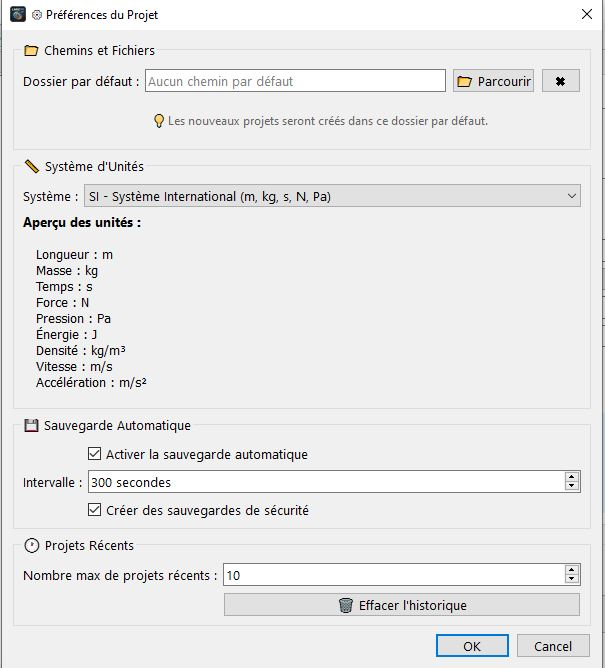
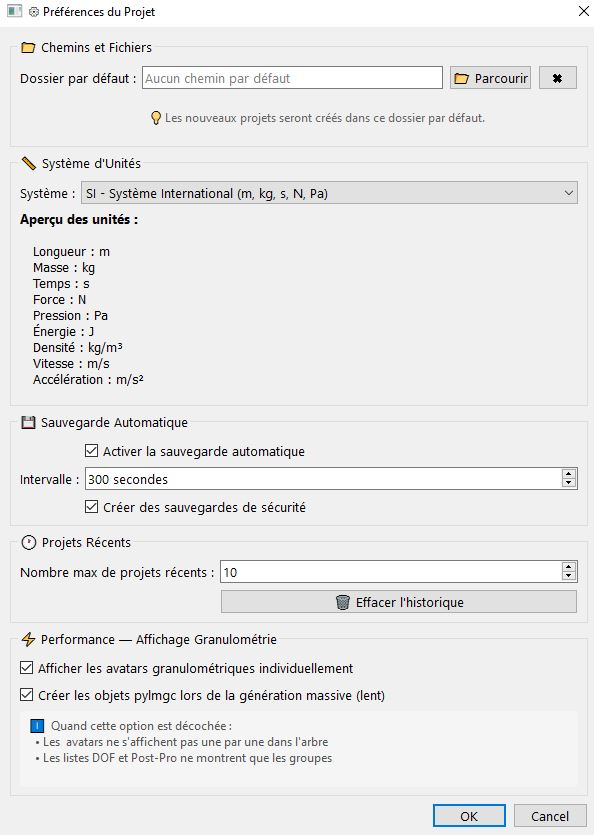
fix docs

Changed region(s): [[0.0, 0.0, 1.0, 1.0]]

diff --git a/docs/material_creation.md b/docs/material_creation.md
@@ -14,15 +14,15 @@ Cette section explique comment créer et configurer un matériau dans LMGC90_GUI
   - **Propriétés** : Champ texte pour paramètres avancés pour chaque type de matériau
 
 ## Types de matériaux disponibles
-Vous pourriez créer différents types de matériaux, ce tabelau comprenne tous les paramères pour chaque matériau: 
+Vous pourriez créer différents types de matériaux, ce tabelau comprenne tous les paramères pour chaque matériau:  
 
 | Code matériau | Nom complet | Nombre de paramètres | Paramètres principaux | Modèles compatibles |
 |---------------|-------------|----------------------|-----------------------|---------------------|
 | **RIGID** | Corps rigide | 1 | density | MECAx, THERx |
 | **THERMO_RIGID** | Corps rigide thermique | 6 | density, anisotropy, thermal_conductivity, specific_heat, thermal_young, thermal_nu | MECAx, THERx |
 | **DISCRETE** | Éléments discrets | 3 | masses, stiffnesses, viscosities | MECAx, THERx |
-| x**USER_MAT** | Matériau utilisateur | 2 | density, file_mat | MECAx |
-| x**EXTERNAL** | Matériau externe | 0 | *(aucun)* | MECAx |
+| (x)**USER_MAT** | Matériau utilisateur | 2 | density, file_mat | MECAx |
+| (x)**EXTERNAL** | Matériau externe | 0 | *(aucun)* | MECAx |
 | **ELAS** | Élastique linéaire | 6 | elas, young, nu, anisotropy, density, G | MECAx, THERx |
 | **VISCO_ELAS** | Visco-élastique | 8 | elas, young, nu, anisotropy, density, viscous_model, viscous_young, viscous_nu | MECAx, THERx |
 | **ELAS_PLAS** | Élasto-plastique | 11 | critere, iso_hard, isoh_coeff, young, nu, anisotropy, elas, density, isoh, cinh, visc | MECAx |
@@ -30,14 +30,15 @@ Vous pourriez créer différents types de matériaux, ce tabelau comprenne tous 
 | **THERMO_ELAS** | Thermo-élastique | 10 | elas, young, nu, anisotropy, conductivity, dilatation, T_ref_meca, specific_capacity, therm_cpl, density | MECAx, THERx |
 | **PORO_ELAS** | Poro-élastique | 8 | elas, young, nu, anisotropy, hydro_cpl, conductivity, specific_capacity, density | POROx |
 
+
 Par cas d'usage
 | Matériau | Applications typiques | Exemples concrets | Domaines |
 |----------|----------------------|-------------------|----------|
 | **RIGID** | Méthode des éléments discrets (DEM) | Empilement de grains, écoulements granulaires, assemblages de particules rigides | Génie civil, pharmacie, agroalimentaire |
 | **THERMO_RIGID** | DEM avec transferts thermiques | Particules chaudes, réacteurs à lit fluidisé, procédés thermiques | Chimie, métallurgie |
 | **DISCRETE** | Systèmes masse-ressort-amortisseur | Isolateurs sismiques, suspensions, liaisons élastiques | Génie parasismique, automobile |
-| x**USER_MAT** | Lois de comportement personnalisées | Matériaux spécifiques, lois expérimentales | Recherche, matériaux innovants |
-| x**EXTERNAL** | Interfaces avec codes externes | Couplage avec autres logiciels | Multi-physique |
+| (x)**USER_MAT** | Lois de comportement personnalisées | Matériaux spécifiques, lois expérimentales | Recherche, matériaux innovants |
+| (x)**EXTERNAL** | Interfaces avec codes externes | Couplage avec autres logiciels | Multi-physique |
 | **ELAS** | Structures en régime élastique | Bâtiments, ponts, pièces mécaniques, structures métalliques | Génie civil, mécanique |
 | **VISCO_ELAS** | Matériaux visqueux | Polymères, asphalte, matériaux amortissants, joints | Routes, automobile, aéronautique |
 | **ELAS_PLAS** | Déformations plastiques permanentes | Formage des métaux, crash, endommagement, usinage | Métallurgie, automobile, aéronautique |
@@ -73,4 +74,4 @@ Dans le menu "Outils"-> "Variables dynamiques", vous aurez cette boite de dialog
 ![](captures/variables.JPG)
 
 ### Exemples et expressions
-Si je clique sur le premier exemple, et je modifie le nom de la variable à "radius ", je lui attribut la valeur de 0.25, puis de cliquer sur le bouton "Ajouter ou modifier", puis sur "OK", vous aurez la possibilité cette variable dans tous les champs.
+Si je clique sur le premier exemple (Constante simple thickness = 0.5), et je modifie le nom de la variable à "radius ", je lui attribut la valeur de 0.25, puis de cliquer sur le bouton "Ajouter ou modifier", puis sur "OK", vous aurez la possibilité de l'utiliser dans tous les champs.

diff --git a/docs/interface.md b/docs/interface.md
@@ -2,9 +2,11 @@
 
 LMGC90_GUI est une interface graphique moderne et intuitive conçue pour faciliter la création de vos modèles numériques avec le module **pre** (pré-processeur) de **LMGC90**.
 
+Il aussi possible de lancer vos calculs seulement sur les rigides.
+
 L'interface est organisée de manière claire et ergonomique pour accompagner l'utilisateur du début à la fin du processus de modélisation : création des éléments, conditions aux limites, post-traitement, puis génération des fichiers de simulation et enfin calculs.
 
-Voici une vue d'ensemble des différentes parties de l'interface.
+Voici cette vidéo qui explique la vue d'ensemble des différentes parties de l'interface.
 
 [![Introduction LMGC90_GUI](https://img.youtube.com/vi/2lVIGg3VboA/0.jpg)](https://www.youtube.com/watch?v=2lVIGg3VboA)
 
@@ -41,8 +43,20 @@ L'interface est divisée en **quatre zones principales** :
   - Sauvegarder sous... (Ctrl+Shift+S)
   - Assistant de configuration de projets (Ctrl+Shift+N)
   Est un assistant qui vous guidera pas à pas pour créer et configurer votre projet
+
+  ![](captures/assistant_projet.JPG)
+
   - Assistant de granulométrie (Ctrl+Shift+G)
-  Est un assistant pour générer une granulométrie rapidement
+  Est un assistant pour générer une granulométrie rapidement avec les routines liées à pylmgc90, idéal pour les dépôt qui ne dépasse pas 2000 avatars, sinon l'application prend beaucoup plus de temps afin de rafraichir l'UI, parfois plante complètement.
+
+  ![](captures/assistant_granulo_pylmgc90.JPG)
+
+  - Génération granulométrie numpy... (bêta)
+  Est une boite de dialogue qui génère et dépose des avatars à base de numpy sans passer par les routines pylmgc90, idéal pour la génération plus de 5000 avatars 
+
+  ![](captures/assistant_granulo_numpy.JPG) 
+
+
   - Quitter (Ctrl+Q)
 - **Outils** :
   - Préférences (Ctrl+,)
@@ -125,6 +139,7 @@ Vous avez la possibilité de spécifier quatre choses :
 - Choisir un système d'unités (SI ou CSG), il n'est pas encore implémenter
 - Automatiser vos sauvegardes en cochant les options 
 - Préciser nombre de projets de votre historique
+- Activer/désactiver l'affichage des avatars dans l'arbre de création et dans le tableau qui liste les avatars dans l'onglet avatars.
 
 ![](captures/preferences.JPG)
 

diff --git a/docs/granulometry.md b/docs/granulometry.md
@@ -49,3 +49,36 @@ IL ne vous reste de cliquer sur le bouton 'Générer de dépôt'
 Le rendu de mon modèle, 
 
 ![](captures/rendu_depot_granulo_disk_jonc.JPG)
+
+## Assistant de granulométrie 
+Vous pouvez aussi utiliser l'assistant de granulométrie afin de générer facilement vos dépôts, cet assistant fait appel aux routines de LMGC90, cela pourra ralentir considérablement votre interface, il n'est pas idéal pour une génération de plus de 2000 avatars (particules).
+Pour cela il vous suffit de cliquer sur le menu "Fichier" puis "Assistant de granulométrie " ou avec le raccourci clavier "ctr+ shift+ G". L'assistant s'ouvrira, cliquez sur le bouton "suivant"
+
+![](captures/assistant_granulo_page1.JPG)
+
+Choisissez la dimension de votre modèle numérique, dans mon cas je vais dire en 3D, puis cliqez sur "suivant"
+
+![](captures/assistant_granulo_page2.JPG)
+
+L'assistant vous propesera de créer un matériau simple de type rigide, j'opte pour les valeurs par défauts, ensuite sur "suivant"
+
+![](captures/assistant_granulo_page3.JPG)
+
+L'assistant vous propesera de créer un modèle rigide de type "Rxx2D"/"Rxx3D" pour la 2D/3D, je laisse tout par défaut, et cliquez sur "suivant", 
+![](captures/assistant_granulo_page4.JPG)
+
+On arrive maintenant au dialogue de génération, pour mon cas je vais générer 500 avatars, le rayon minimal et maximal respectivement à 0.05 et 0.06, puis cliquez sur "suivant", 
+
+![](captures/assistant_granulo_page5.JPG)
+
+Le type de dépôt est sur une Boxe3D, puis "suivant",
+
+![](captures/assistant_granulo_page6.JPG)
+
+Enfin on est arrivé au récapitulatif, on termine par cliquer sur le bouton "générer"
+
+![](captures/assistant_granulo_page7.JPG)
+
+## Génaration avec numpy
+Il est possible d'utiliser un générateur d'avatars avec numpy, adapter pour les très grande génération, plus de 5000 avatars, pour cela cliquez sur le menu "fichier" -> "Génerateur granulométrie numpy...(bétâ)", 
+![](captures/assistant_granulo_numpy.JPG)

diff --git a/docs/project_wizard.md b/docs/project_wizard.md
@@ -1,5 +1,5 @@
 # Assistant de projet 
-L'Assistant de Configuration de Projet est un outil qui vous guidera pas à pas afin de créer rapidement un projet LMGC90 complet avec tous les éléments de vos modèles numériques.
+L'Assistant de Configuration de Projet est un outil qui vous guidera pas à pas afin de créer rapidement un projet LMGC90 complet avec  les éléments essentiaux de vos modèles numériques.
 
 ## 🎯 Objectif
 
@@ -48,3 +48,5 @@ Je poursuie avec la dernière étape, créer une table de visibilité pour la ge
 Nous arriverons enfin au récapulatif de notre assistant, en cliquant sur le bouton "Créer projet", tous éléments seront crées automatiquement. 
 
 ![](captures/projet_assistant_recap.JPG)
+
+Une fois la boite de dialgue valider, tous vos éléments seront crées, après vous pouvez apporté des modifications.

diff --git a/docs/loops.md b/docs/loops.md
@@ -37,3 +37,8 @@ _Remarque_ : Pour avoir le rendu de mon modèle je clique simplement sur le bout
 ## Utilisation
 Idéal pour générer des murs, empilement régulier d'avatars,
 
+## Boucle sur vos éléments
+Il est tout à fait possible de créer des boucles **for** comme dans python sur vos éléments, pour cela il faudra choisir le  type de boucle à **For**, ensuite de préciser la configuration de votre boucle, le type de l'élément pour lequel vous souhaiterai faire une boucle et donner les détails de vos éléments dans une template JSON
+
+![](captures/for_generique.JPG)
+

diff --git a/docs/avatar_creation.md b/docs/avatar_creation.md
@@ -36,7 +36,7 @@ Chaque avatar est caractérisé par son :
 - Mur : longueur, rayon/hauteur, nombre de vertices
 
 ## Exemple 
-Pour créer un avatar de tyoe disque, il vous suffit seulement de préciser  : 
+Pour créer un avatar de type disque, il vous suffit seulement de préciser  : 
 - rayon : 0.25, 
 - coordonnées : [0.0, 0.0], 
 - le matériau et modèle sont chargés automatiquement
